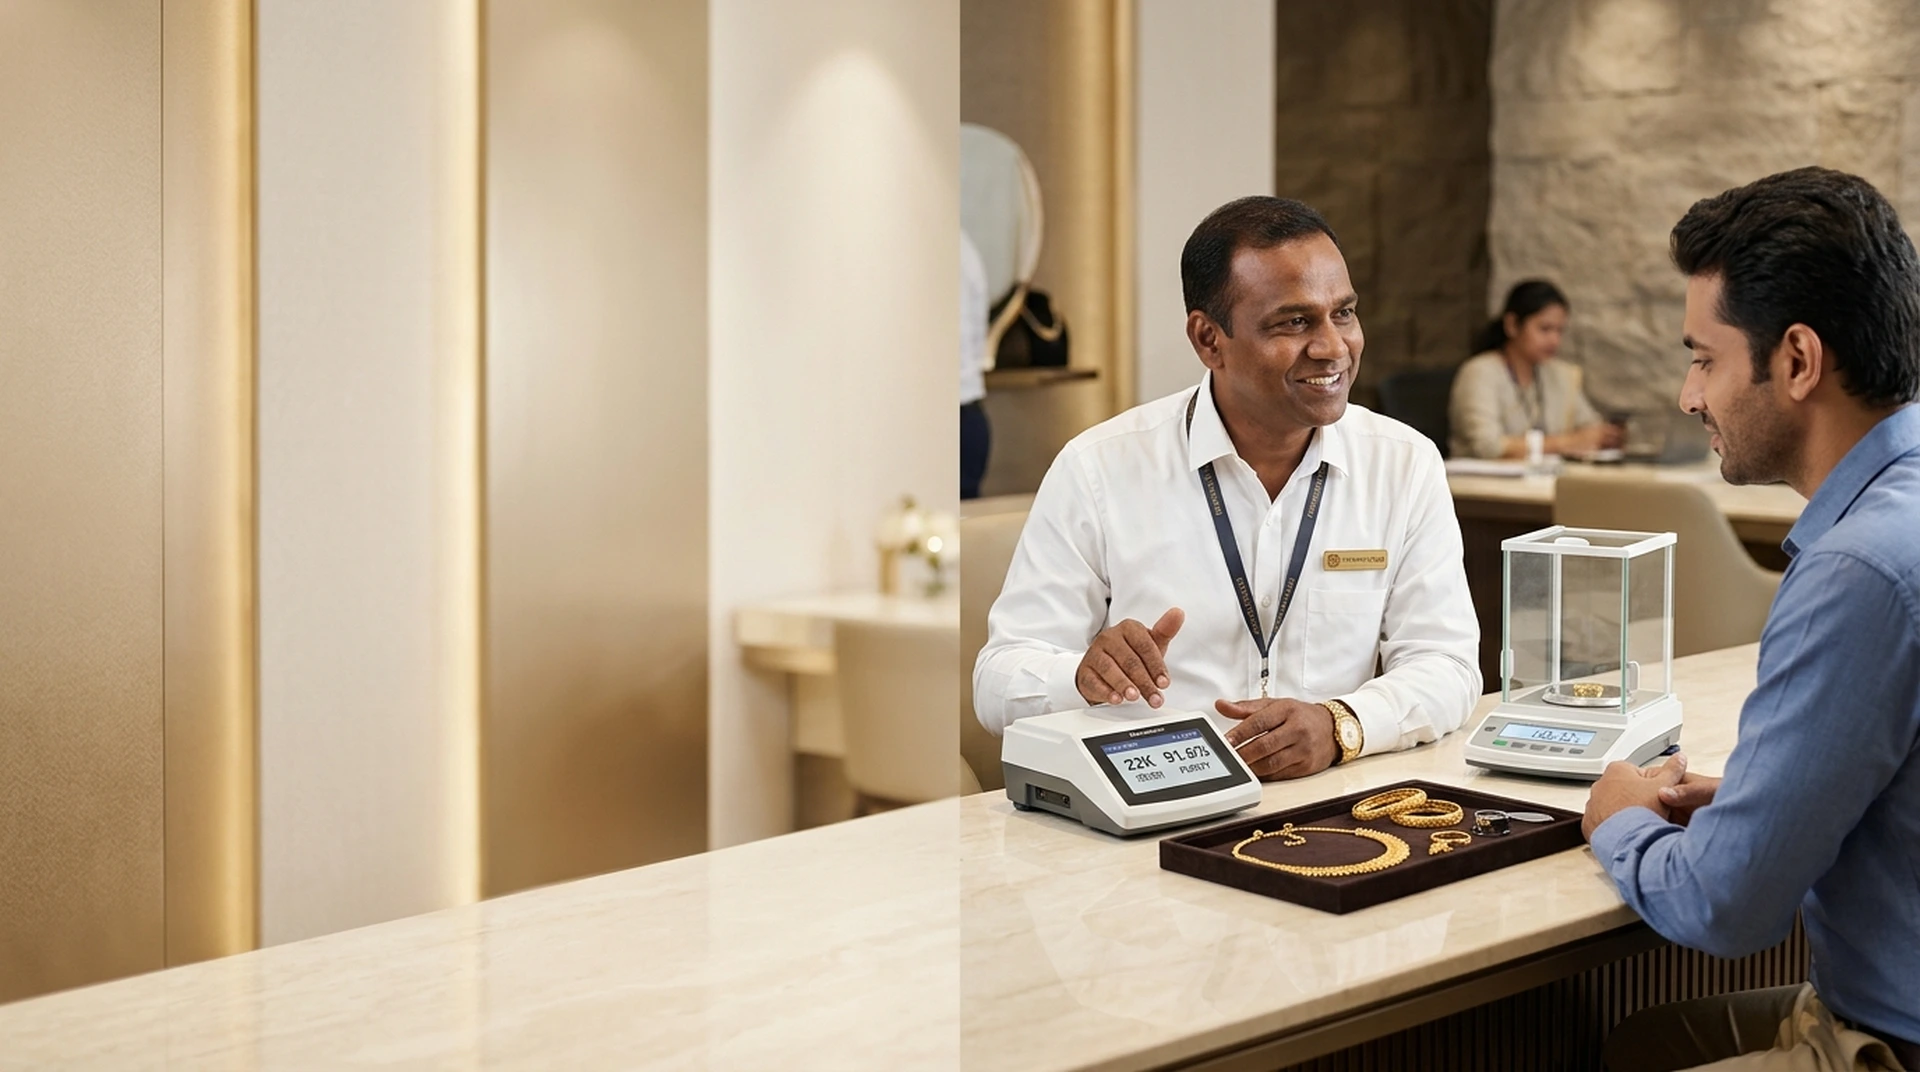
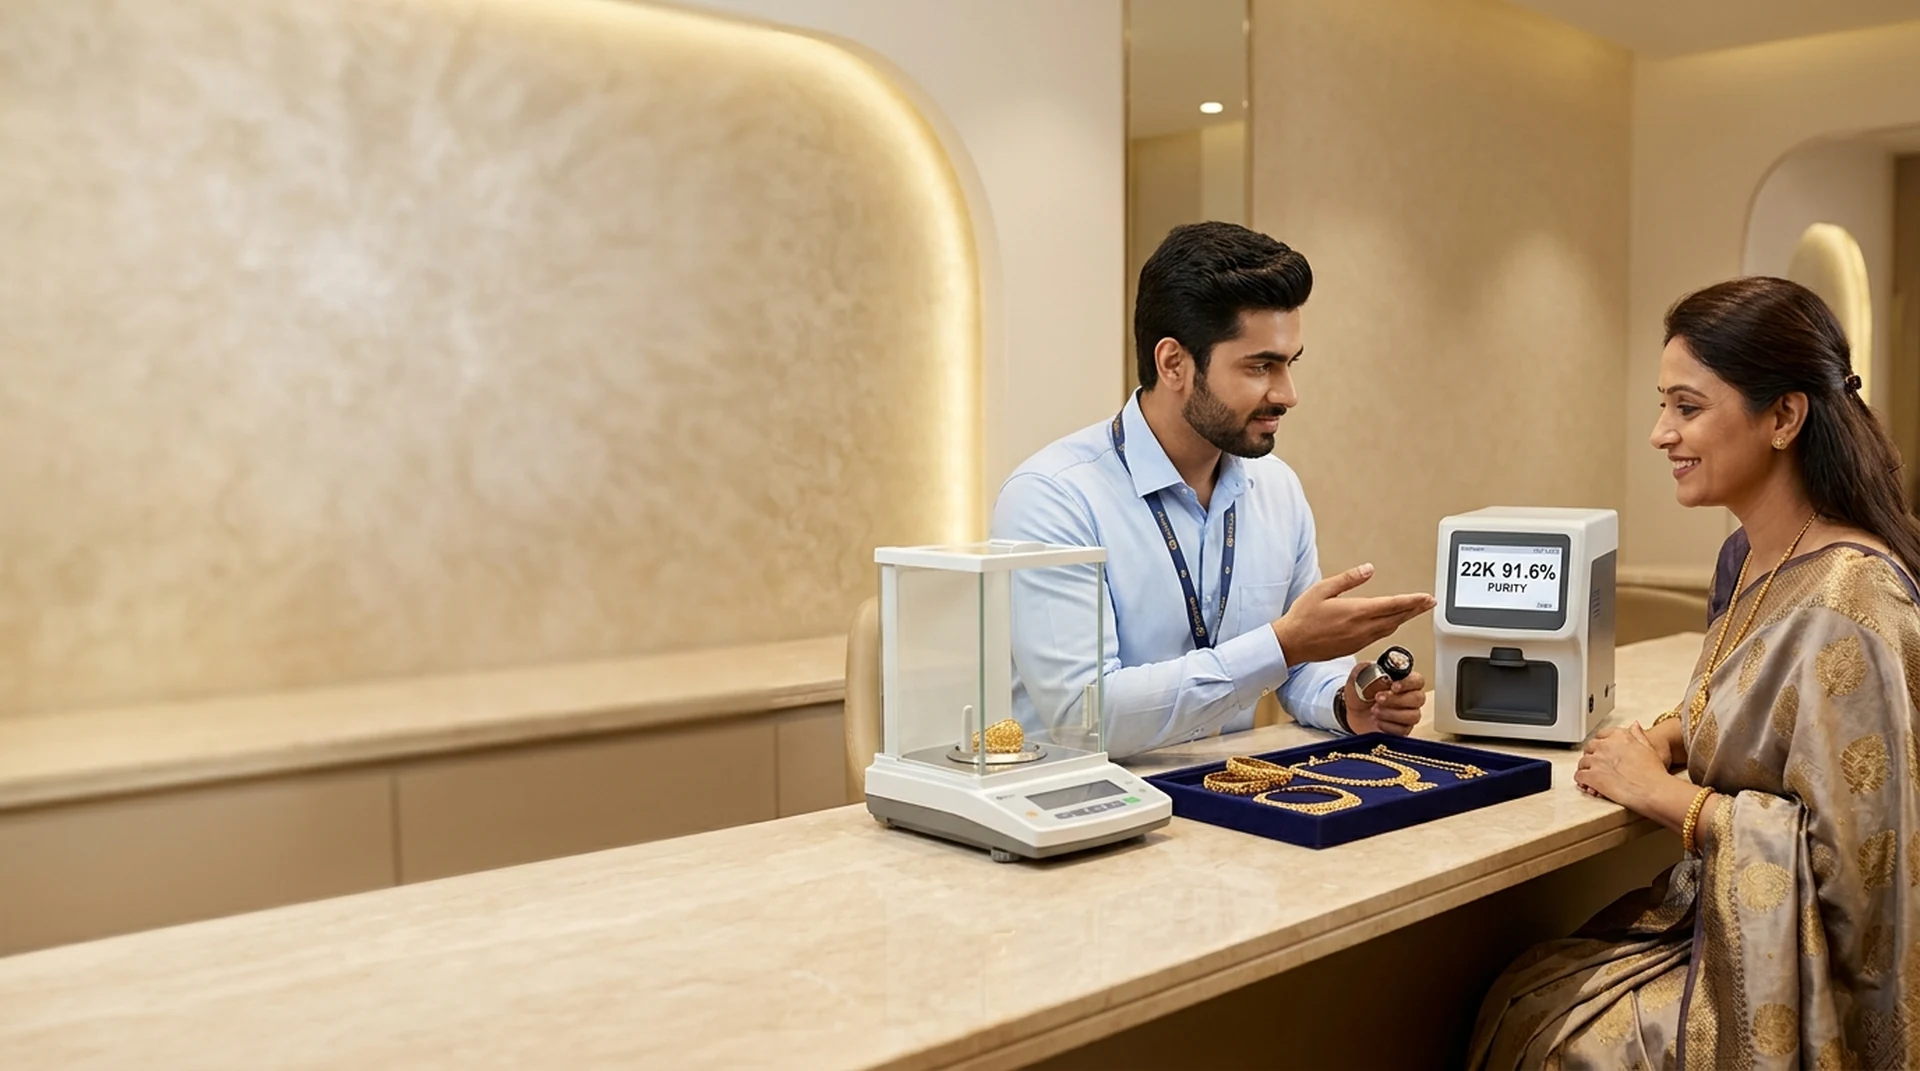
feat(hero): update first slide photograph with middle-aged woman customer and sharp 28yo professional estimator

diff --git a/src/components/home/HeroSlider.tsx b/src/components/home/HeroSlider.tsx
@@ -37,7 +37,7 @@ const SLIDES: SlideData[] = [
     secondaryCtaText: "CALL OUR TEAM",
     image: heroValuationDesktop,
     mobileImage: heroValuationMobile,
-    imageAlt: "Professional Indian gold estimator in Kadapa evaluating 22K gold jewellery on digital Karatmeter and precision scale with customer"
+    imageAlt: "Professional 28-year-old gold estimator evaluating 22K gold jewellery with an elegant middle-aged woman customer on digital Karatmeter and precision scale in Kadapa"
   },
   {
     id: 2,
